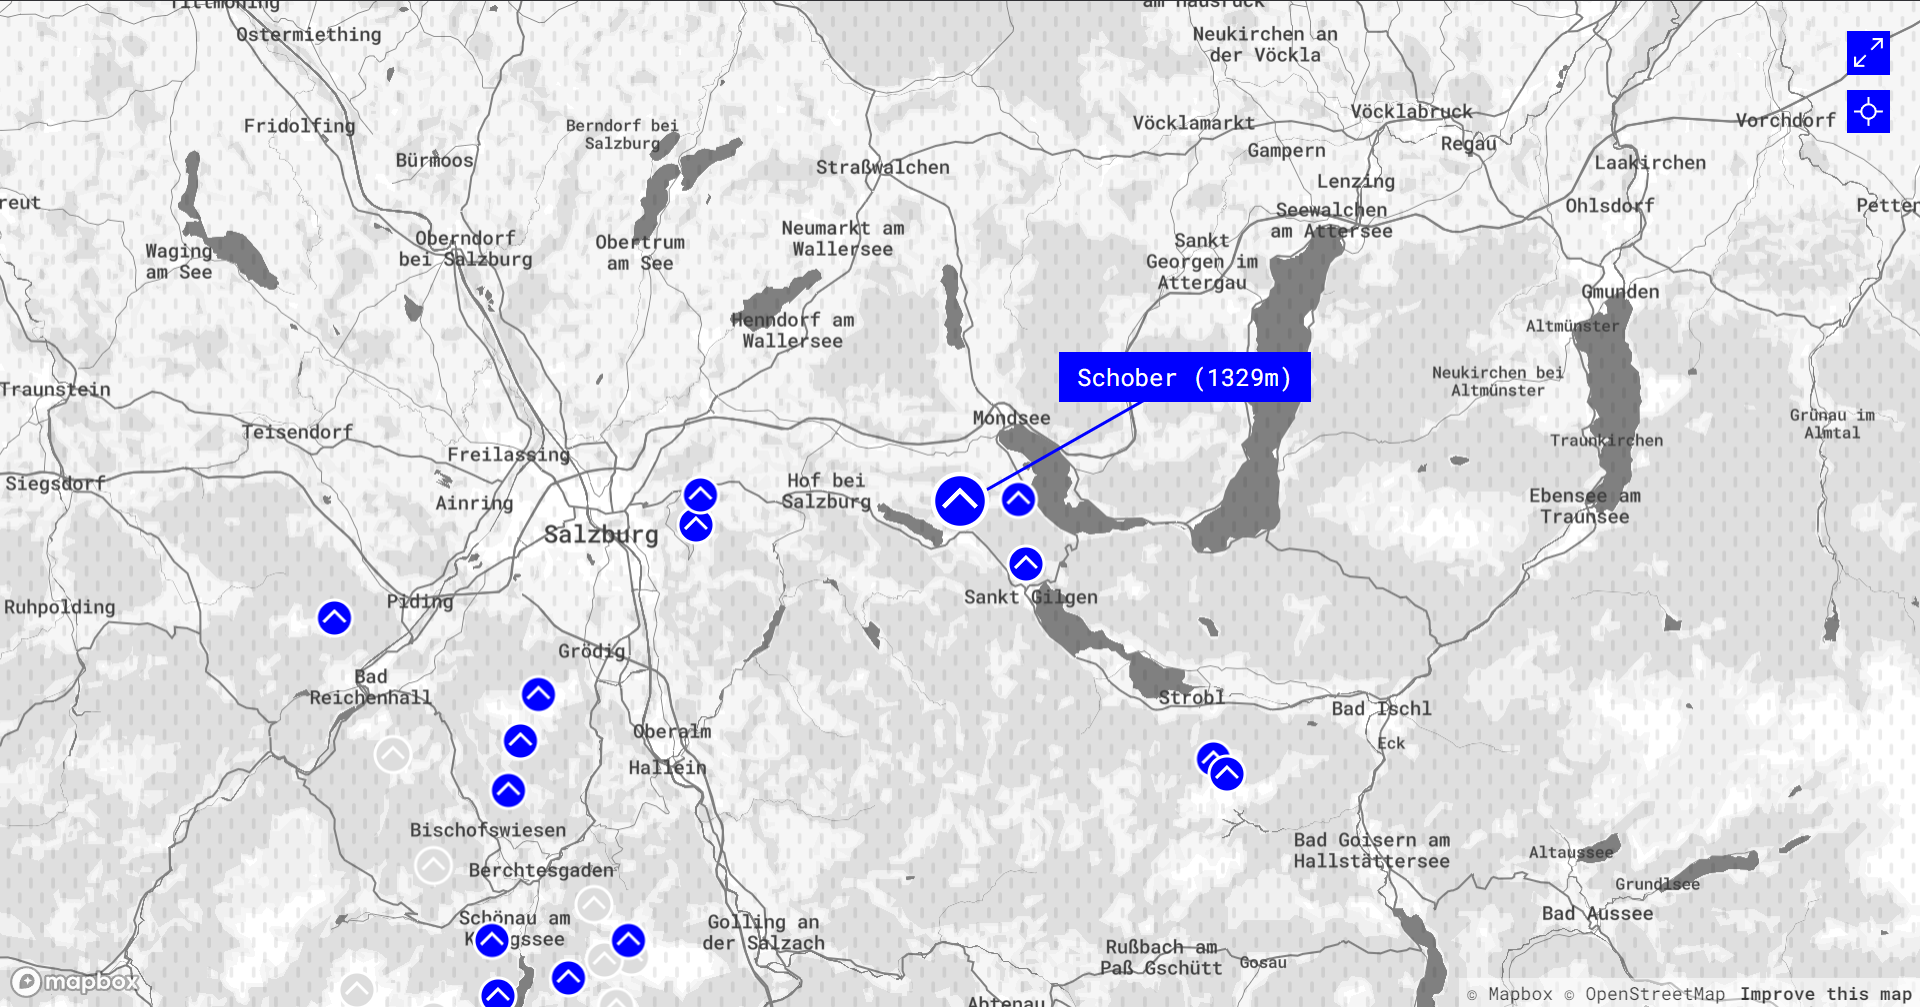
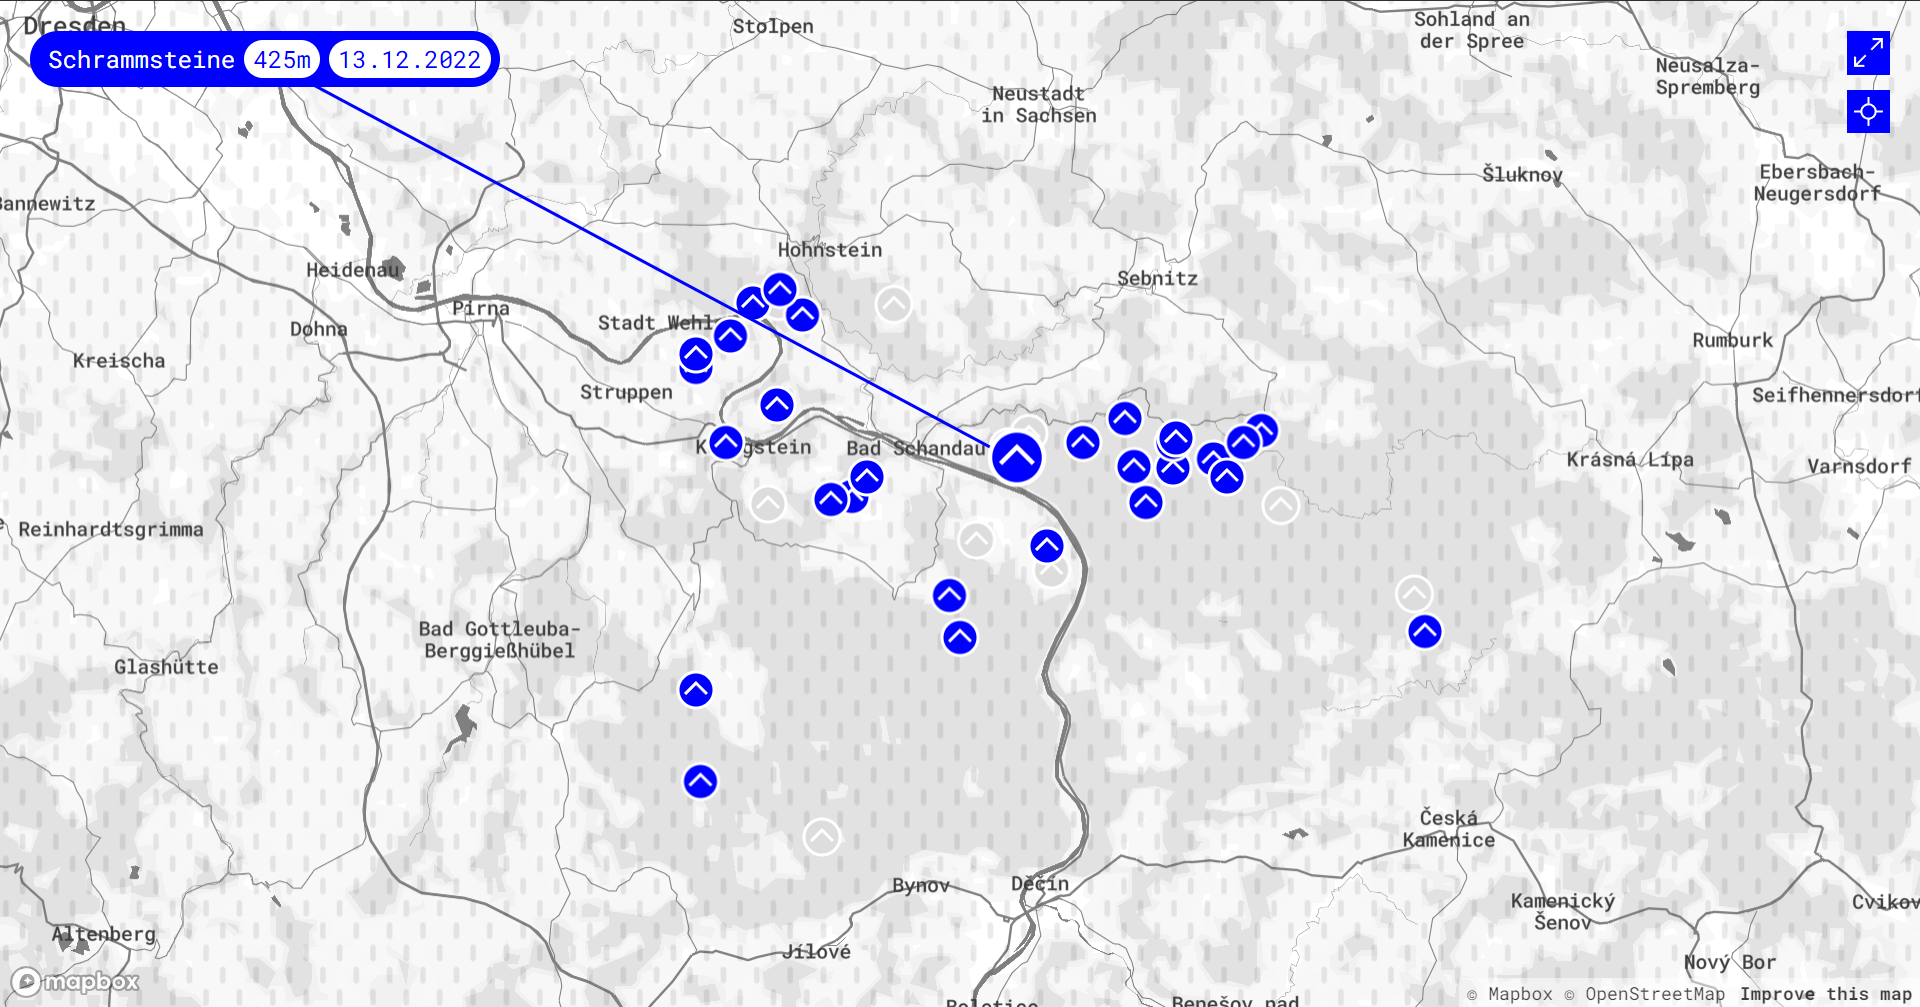
feat: update

diff --git a/src/styles.css b/src/styles.css
@@ -54,9 +54,22 @@ body,
   background-color: var(--color);
   color: white;
   display: inline-block;
-  padding: 6px 12px;
-  /* border-radius: 24px; */
+  padding: 6px 6px 6px 12px;
+  border-radius: 24px;
   /* border: solid 2px white; */
+
+  &:not(:has(.badge)) {
+    padding-right: 12px;
+  }
+
+  .badge {
+    display: inline-block;
+    background-color: white;
+    color: blue;
+    padding: 2px 6px;
+    border-radius: 24px;
+    margin-left: 6px;
+  }
 }
 
 #info:not(.open) {
